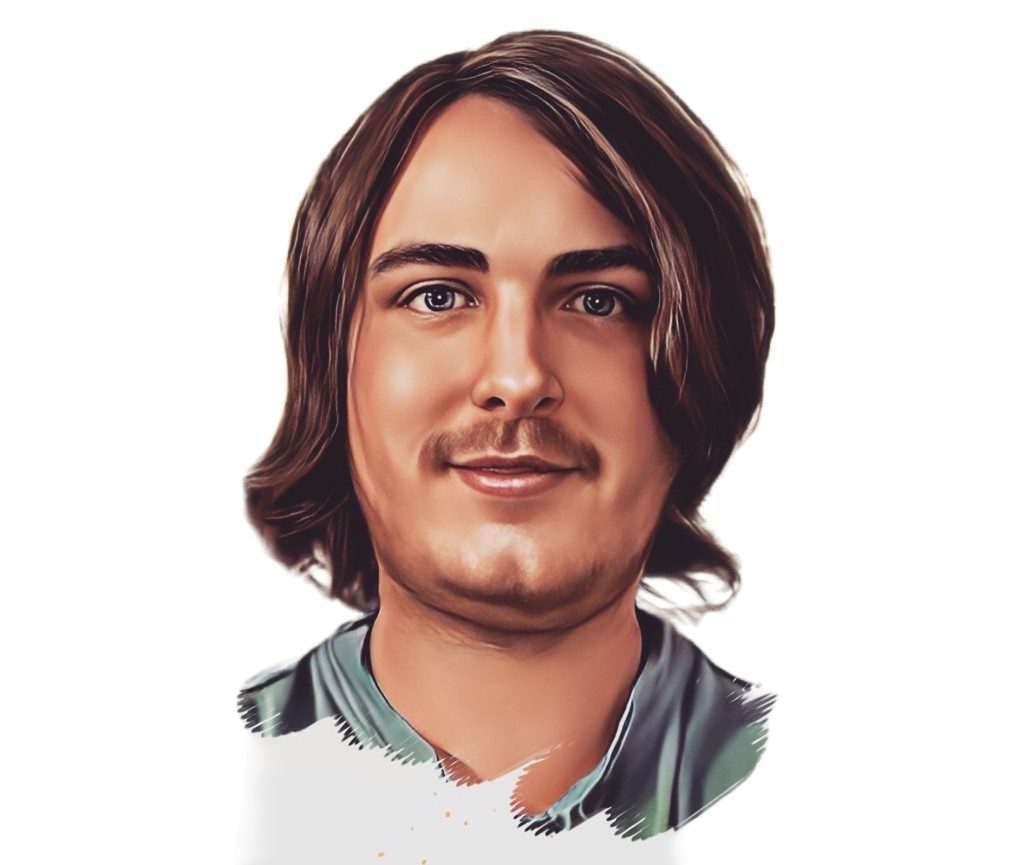
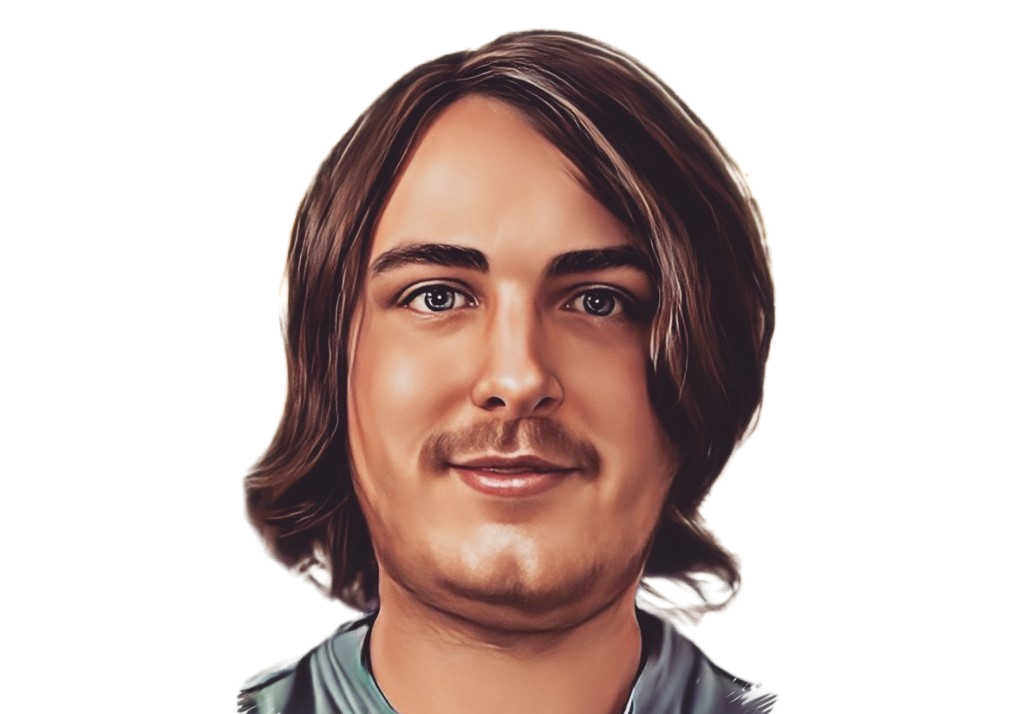
added profile pic

diff --git a/src/pages/index.tsx b/src/pages/index.tsx
@@ -4,25 +4,30 @@ import type { NextPage } from "next";
 
 const Home: NextPage = () => {
 	return (
-		<div className="p-8 flex flex-col-reverse items-center md:flex-row">
+		<div className="p-8 gap-6 md:gap-10 flex flex-col-reverse items-center justify-center md:flex-row">
 			<motion.div
-				className="tracking-tight flex flex-col gap-1 text-3xl sm:text-4xl md:text-5xl font-bold"
+				className="tracking-tight md:flex md:flex-col md:gap-1 text-2xl sm:text-4xl md:text-5xl font-bold"
 				initial={{ opacity: 0 }}
 				animate={{ opacity: 1 }}
 				transition={{ duration: 1 }}
 			>
-				<h1>Hi,</h1>
-				<h1>
+				<h1 className="inline md:block">Hi, </h1>
+				<h1 className="inline md:block">
 					I&apos;m{" "}
 					<span className="text-sky-600 dark:text-sky-400 underline underline-offset-4">
 						Austin
 					</span>
-					,
+					,{" "}
 				</h1>
-				<h1>a web developer</h1>
+				<h1 className="inline md:block">a web developer</h1>
 			</motion.div>
-			<motion.div className="relative w-72 md:w-96 aspect-square rounded-full overflow-hidden mix-blend-luminosity">
-				<Image src="/imgs/profile_pic.png" alt="Profile Pic" layout="fill" objectFit='cover' />
+			<motion.div className="relative w-52 sm:w-64 md:w-72 aspect-square rounded-full overflow-hidden outline outline-offset-4 outline-slate-900 dark:outline-current pointer-events-none">
+				<Image
+					src="/imgs/profile_pic.png"
+					alt="Profile Pic"
+					layout="fill"
+					objectFit="cover"
+				/>
 			</motion.div>
 		</div>
 	);

diff --git a/src/components/layouts/Main.tsx b/src/components/layouts/Main.tsx
@@ -12,7 +12,7 @@ interface MainProps {
 
 const Main: React.FC<MainProps> = ({ children, router }) => {
 	return (
-		<main className="min-h-screen bg-no-repeat bg-cover bg-center bg-main-light text-slate-900 dark:bg-main-dark dark:text-slate-50 flex items-center flex-col transition-colors duration-200">
+		<main className="relative min-h-screen bg-no-repeat bg-cover bg-center bg-main-light text-slate-900 dark:bg-main-dark dark:text-slate-50 flex items-center flex-col transition-colors duration-200">
 			<Head>
 				<meta name="viewport" content="width=device-width, initial-scale=1.0" />
 				{/* <meta name="description" content="Austin's homepage" />

diff --git a/src/components/Navbar.tsx b/src/components/Navbar.tsx
@@ -13,7 +13,7 @@ interface NavbarProps {
 
 const Navbar: React.FC<NavbarProps> = ({ path }) => {
 	return (
-		<nav className="shadow-md dark:shadow-none w-screen mb-4 flex justify-center backdrop-blur-sm transition-colors duration-200">
+		<nav className="shadow-md dark:shadow-none w-screen flex justify-center backdrop-blur-sm transition-colors duration-200 z-50">
 			<div className="flex justify-between items-center h-12 font-semibold sticky top-0 w-full max-w-4xl px-4 text-sm">
 				<Link href="/">
 					<a className="tracking-tighter">Austin Pierson</a>
